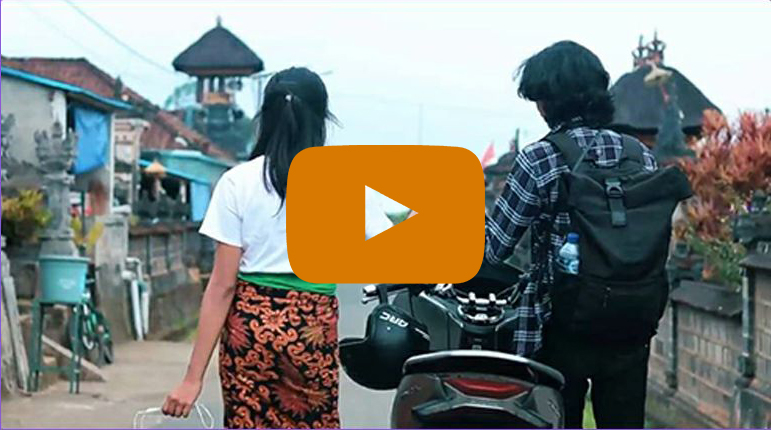
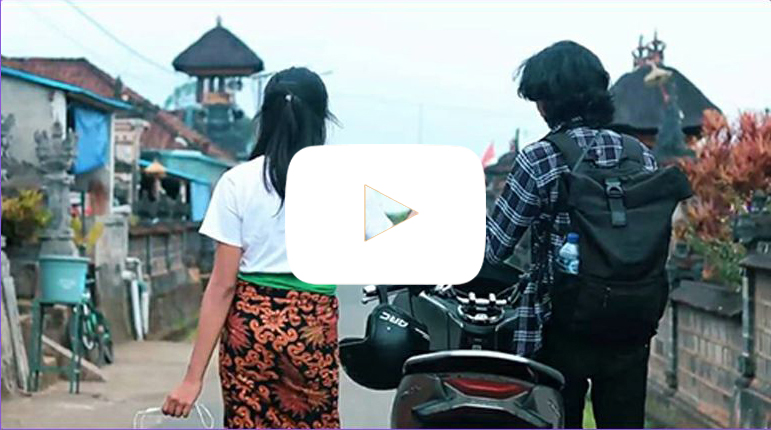
menambahkan popup di series

Changed region(s): [[0.3424, 0.3326, 0.6537, 0.6651]]

diff --git a/index.html b/index.html
@@ -16,7 +16,9 @@
     <link href="https://fonts.googleapis.com/css2?family=Montserrat:wght@600;900&display=swap" rel="stylesheet">
     
     <script src="js/script.js"></script>
-    <script src="https://code.jquery.com/jquery-3.6.0.min.js" integrity="sha256-/xUj+3OJU5yExlq6GSYGSHk7tPXikynS7ogEvDej/m4=" crossorigin="anonymous"></script>
+    <script src="https://code.jquery.com/jquery-3.6.0.min.js"></script>
+    <script src="https://cdnjs.cloudflare.com/ajax/libs/venobox/1.9.3/venobox.min.js"></script>
+    <link rel="stylesheet" href="https://cdnjs.cloudflare.com/ajax/libs/venobox/1.9.3/venobox.css"/>
     <title>Pelisan Waterfall</title>
   </head>
   <body>
@@ -116,7 +118,9 @@
               <img id="kiri" src="assets/series/ep5fix.jpg">
             </div>
             <div id="videomain">
-              <img id="utama" src="assets/series/ep1fix.jpg">
+              <a class="venobox" data-autoplay="true" data-vbtype="video" href="http://youtu.be/xxx">
+                <img id="utama" src="assets/series/ep1fix.jpg">
+              </a>
             </div>
             <div id="video3">
               <img id="kanan" src="assets/series/ep2fix.jpg">
@@ -341,8 +345,8 @@
             <h3>Tourist Review</h3>
           </div>
         </div>
-        <div class="row">
-          <div class="col-md-8">
+        <div id="tourist-review" class="row">
+          <div class="col-md-9 col-lg-9 col-sm-12 col-xl-8">
             <div id="review" class="review">
               <div id="left-arrow">
                 <img width="80px" height="auto" id="left" src="assets/series/angle-down 2.png" alt="Left">
@@ -368,7 +372,7 @@
               <button id="r5" onclick="r5();listReview()"></button>
             </div>
           </div>
-          <div class="col-md-4">
+          <div class="col-md-9 col-lg-3 col-sm-12 col-xl-4">
             <p id="reviewr" class="reviewer-impression">Wisata alam di Bali, air terjun Pelisan di Desa Langgahan yang belum banyak orang tahu.</p>
             <p id="nama" class="reviewer-name"> <u>Vynna Valencia</u></p>
           </div>

diff --git a/js/script.js b/js/script.js
@@ -5,6 +5,7 @@ var foto = [];
 var foto2 = [];
 var foto3 = [];
 
+
 review[0] = '<p id="reviewr" class="reviewer-impression">Wisata alam di Bali, air terjun Pelisan di Desa Langgahan yang belum banyak orang tahu.</p>';
 review[1] = '<p id="reviewr" class="reviewer-impression">Air Terjun Pelisan memiliki panorama yang indah, dengan  beberapa pohon jeruk yang bisa ditemui, dan air nya yang jernih.</p>';
 review[2] = '<p id="reviewr" class="reviewer-impression">Salah satu surga tersembunyi di Bali, yang menyimpan banyak keindahan dan tradisi.</p>';
@@ -322,7 +323,7 @@ function r1(){
     $("#r5").css("background-color", "#C4C4C4");
     $("#r1").css("background-color", "#000000");
 
-    return x;
+    return y;
 }
 function r2(){
     y = 1;
@@ -332,7 +333,7 @@ function r2(){
     $("#r4").css("background-color", "#C4C4C4");
     $("#r5").css("background-color", "#C4C4C4");
 
-    return x;
+    return y;
 }
 function r3(){
     y = 2;
@@ -342,7 +343,7 @@ function r3(){
     $("#r5").css("background-color", "#C4C4C4");
     $("#r1").css("background-color", "#C4C4C4");
 
-    return x;
+    return y;
 }
 function r4(){
     y = 3;
@@ -352,10 +353,10 @@ function r4(){
     $("#r1").css("background-color", "#C4C4C4");
     $("#r2").css("background-color", "#C4C4C4");
 
-    return x;
+    return y;
 }
 function r5(){
-    x = 4;
+    y = 4;
     $("#r4").css("background-color", "#C4C4C4");
     $("#r5").css("background-color", "#000000");
     $("#r1").css("background-color", "#C4C4C4");
@@ -363,7 +364,7 @@ function r5(){
     $("#r3").css("background-color", "#C4C4C4");
     $("#r4").css("background-color", "#C4C4C4");
 
-    return x;
+    return y;
 }
 
 function listReview(){

diff --git a/css/style.css b/css/style.css
@@ -305,6 +305,10 @@ a{
 }
 
 /* REVIEW */
+#tourist-review{
+    display: flex;justify-content: center;align-items: center;
+}
+
 #review{
     display: flex;align-content: center;justify-content: center;align-items: center;margin-top: 3vw;;
 }
@@ -706,13 +710,13 @@ background: linear-gradient(0deg, rgb(255, 255, 255) 0%, rgba(255, 255, 255, 0) 
     font-family: 'Poppins', sans-serif;
     font-style: normal;
     font-weight: 500;
-    font-size: 30px;
+    font-size: 1.85vw;
     color: #054000;
     text-align: left;
 }
 
 .reviewer-impression {
-    line-height: 2em;
+    line-height: 1.5em;
 }
 
 .reviewer-impression::before {
@@ -756,6 +760,7 @@ background: linear-gradient(0deg, rgb(255, 255, 255) 0%, rgba(255, 255, 255, 0) 
     /* height: 270px; */
     background-color: black;
     color: white;
+    /* transition: 0.2s ; */
 }
 
 .footer .container {
